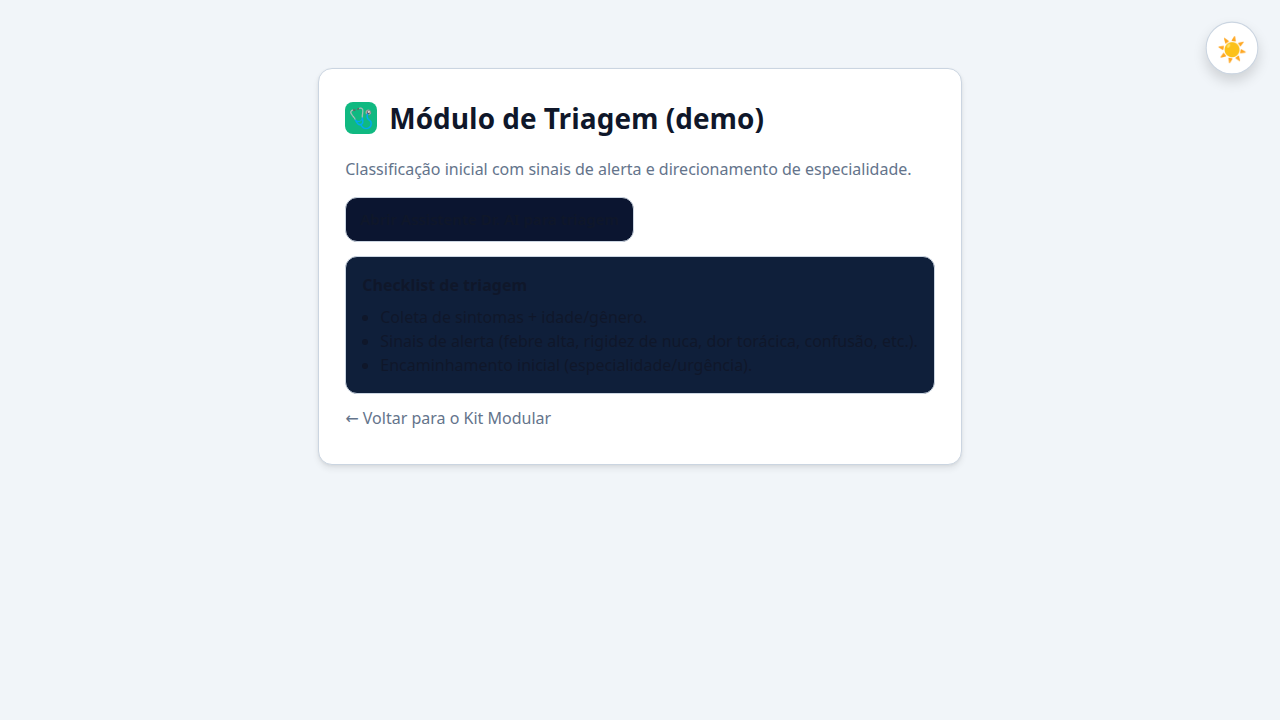
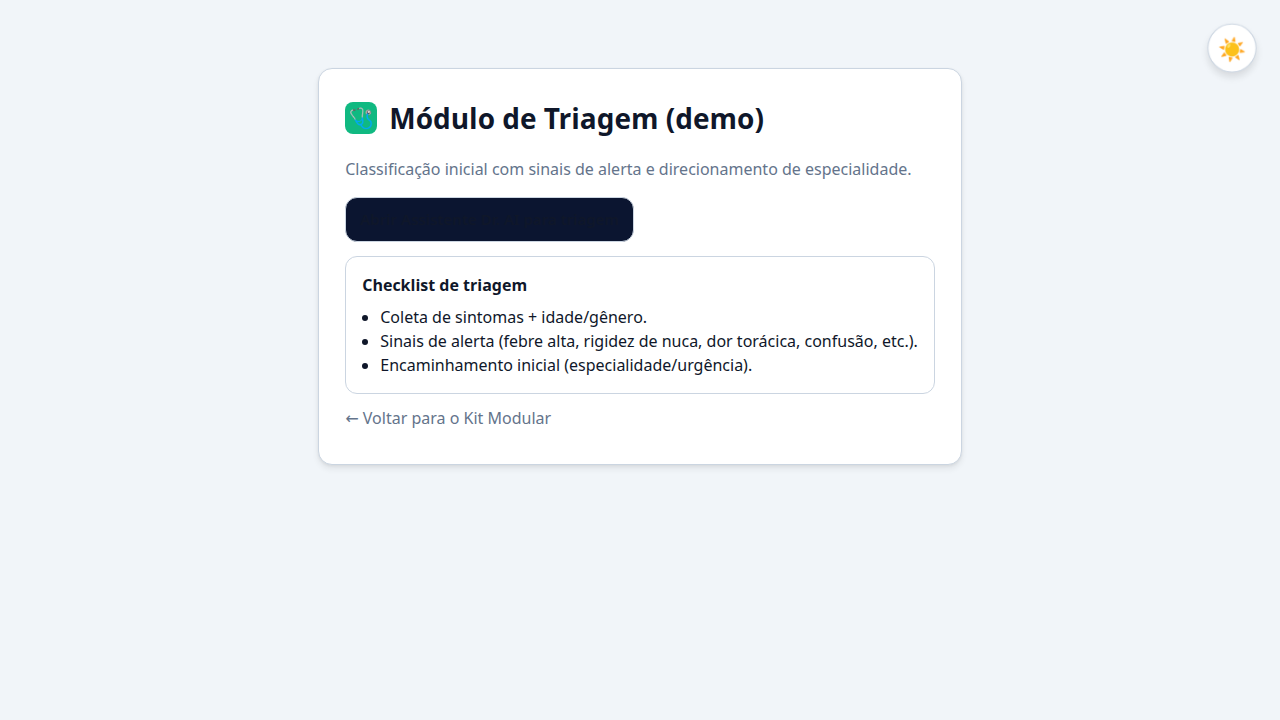
Update card and box styles to use a variable for background color
Updates CSS variables for .tool-card and .checklist-box backgrounds in HTML files.

Replit-Commit-Author: Agent
Replit-Commit-Session-Id: b00a56fe-9449-4fa1-a7ef-8953f8851320
Replit-Commit-Checkpoint-Type: full_checkpoint
Replit-Commit-Screenshot-Url: https://storage.googleapis.com/screenshot-production-us-central1/60caaae2-b759-4421-bea0-41165f6b95a2/b00a56fe-9449-4fa1-a7ef-8953f8851320/YIkFyZE

Changed region(s): [[0.25, 0.3361, 0.75, 0.55], [0.9375, 0.0306, 0.9688, 0.0917]]

diff --git a/apps/telemed-deploy-ready/public/medico-demo.html b/apps/telemed-deploy-ready/public/medico-demo.html
@@ -11,7 +11,7 @@
     .hero h1{font-size:32px;font-weight:800;margin:0 0 8px;color:var(--text)}
     .subtitle{color:var(--muted);font-size:18px}
     .grid{display:grid;grid-template-columns:repeat(auto-fit,minmax(280px,1fr));gap:16px}
-    .tool-card{background:#0f1f3a;border:1px solid var(--border);border-radius:12px;padding:20px;text-decoration:none;display:block;transition:transform .2s,box-shadow .2s,border-color .2s;color:var(--text)}
+    .tool-card{background:var(--panel);border:1px solid var(--border);border-radius:12px;padding:20px;text-decoration:none;display:block;transition:transform .2s,box-shadow .2s,border-color .2s;color:var(--text)}
     .tool-card:hover{transform:translateY(-4px);box-shadow:0 8px 24px rgba(14,165,233,.2);border-color:var(--primary)}
     .tool-icon{font-size:36px;margin-bottom:12px}
     .tool-card h3{margin:0 0 8px;font-size:18px;font-weight:700;color:var(--text)}

diff --git a/apps/telemed-deploy-ready/public/mod-triagem.html b/apps/telemed-deploy-ready/public/mod-triagem.html
@@ -8,7 +8,7 @@
   <style>
     .subtitle{color:var(--muted);margin-bottom:16px}
     .actions{display:flex;gap:12px;flex-wrap:wrap;margin:14px 0}
-    .checklist-box{background:#0f1f3a;border:1px solid var(--border);border-radius:12px;padding:16px}
+    .checklist-box{background:var(--panel);border:1px solid var(--border);border-radius:12px;padding:16px}
     ul{margin:8px 0 0 18px;color:var(--text)}
   </style>
 </head>
